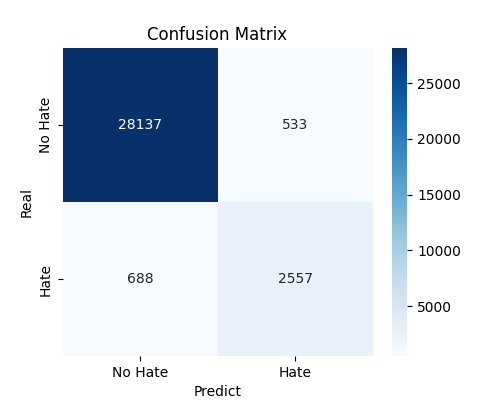
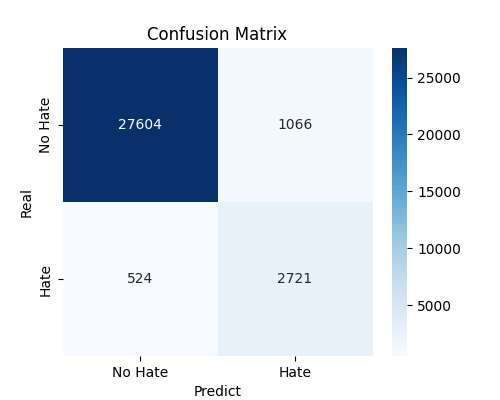
Aggiornamento automatico da Colab

diff --git a/src/train.py b/src/train.py
@@ -79,24 +79,24 @@ model_hate_binary = binary_hate_model(vocabulary_size = vocabulary_hate_size,
                                                  tf.keras.metrics.Recall(name = 'recall')])
 
 # LOG FILE .csv
-csv_logger = CSVLoggerCustom('results/training_log_model_hate_or_not.csv', verbose = True)
+csv_logger_binary_hate = CSVLoggerCustom('results/binary_hate/training_log_model_hate_or_not.csv', verbose = True)
 
 # FIT THE MODEL
-'''history_hate_binary = model_hate_binary.fit(padded_train_hate_sequences,
+history_hate_binary = model_hate_binary.fit(padded_train_hate_sequences,
                                             y_train_hate,
                                             epochs = 100,
                                             validation_split = 0.2,
                                             batch_size = 256,
                                             class_weight = class_weights_hate(y_test_hate),
-                                            callbacks = [callback_binary_hate(), csv_logger])'''
+                                            callbacks = [callback_binary_hate(), csv_logger_binary_hate])
 
 # COPY WEIGHTS TO /models (to be added)
-#model_hate_binary.save('/content/drive/MyDrive/Colab Notebooks/Progetto GitHub/DL GitHub/hate_filter_model.h5')
+model_hate_binary.save('/content/drive/MyDrive/Colab Notebooks/Progetto GitHub/DL GitHub/binary_hate_model.h5')
 #model_hate_binary.save('/model/hate_filter_model.h5')
 
 ###
 try:
-  model_hate_binary = tf.keras.models.load_model('/content/drive/MyDrive/Colab Notebooks/Deep Learning/model_hating_or_not.h5')
+  model_hate_binary = tf.keras.models.load_model('/content/drive/MyDrive/Colab Notebooks/Deep Learning/binary_hate_model.h5')
   print("Modello 'model_hate_binary.h5' caricato con successo.")
 except Exception as e:
   print(f"Errore nel caricamento del modello binario: {e}")

diff --git a/src/evaluate.py b/src/evaluate.py
@@ -64,7 +64,7 @@ def evaluate_model(model, X_test, y_test, threshold = 0.5, folder = None):
   report = classification_report(y_test, y_pred, output_dict=True)
   report_df = pd.DataFrame(report).transpose()
   os.makedirs(f"results/{folder}", exist_ok=True)
-  report_df.to_csv(f'results/{folder}/metrics_report.csv', index=True)
+  report_df.to_csv(f'results/{folder}/metrics_report_on_test.csv', index=True)
 
   cm = confusion_matrix(y_test, y_pred)
   plt.figure(figsize=(5, 4))
